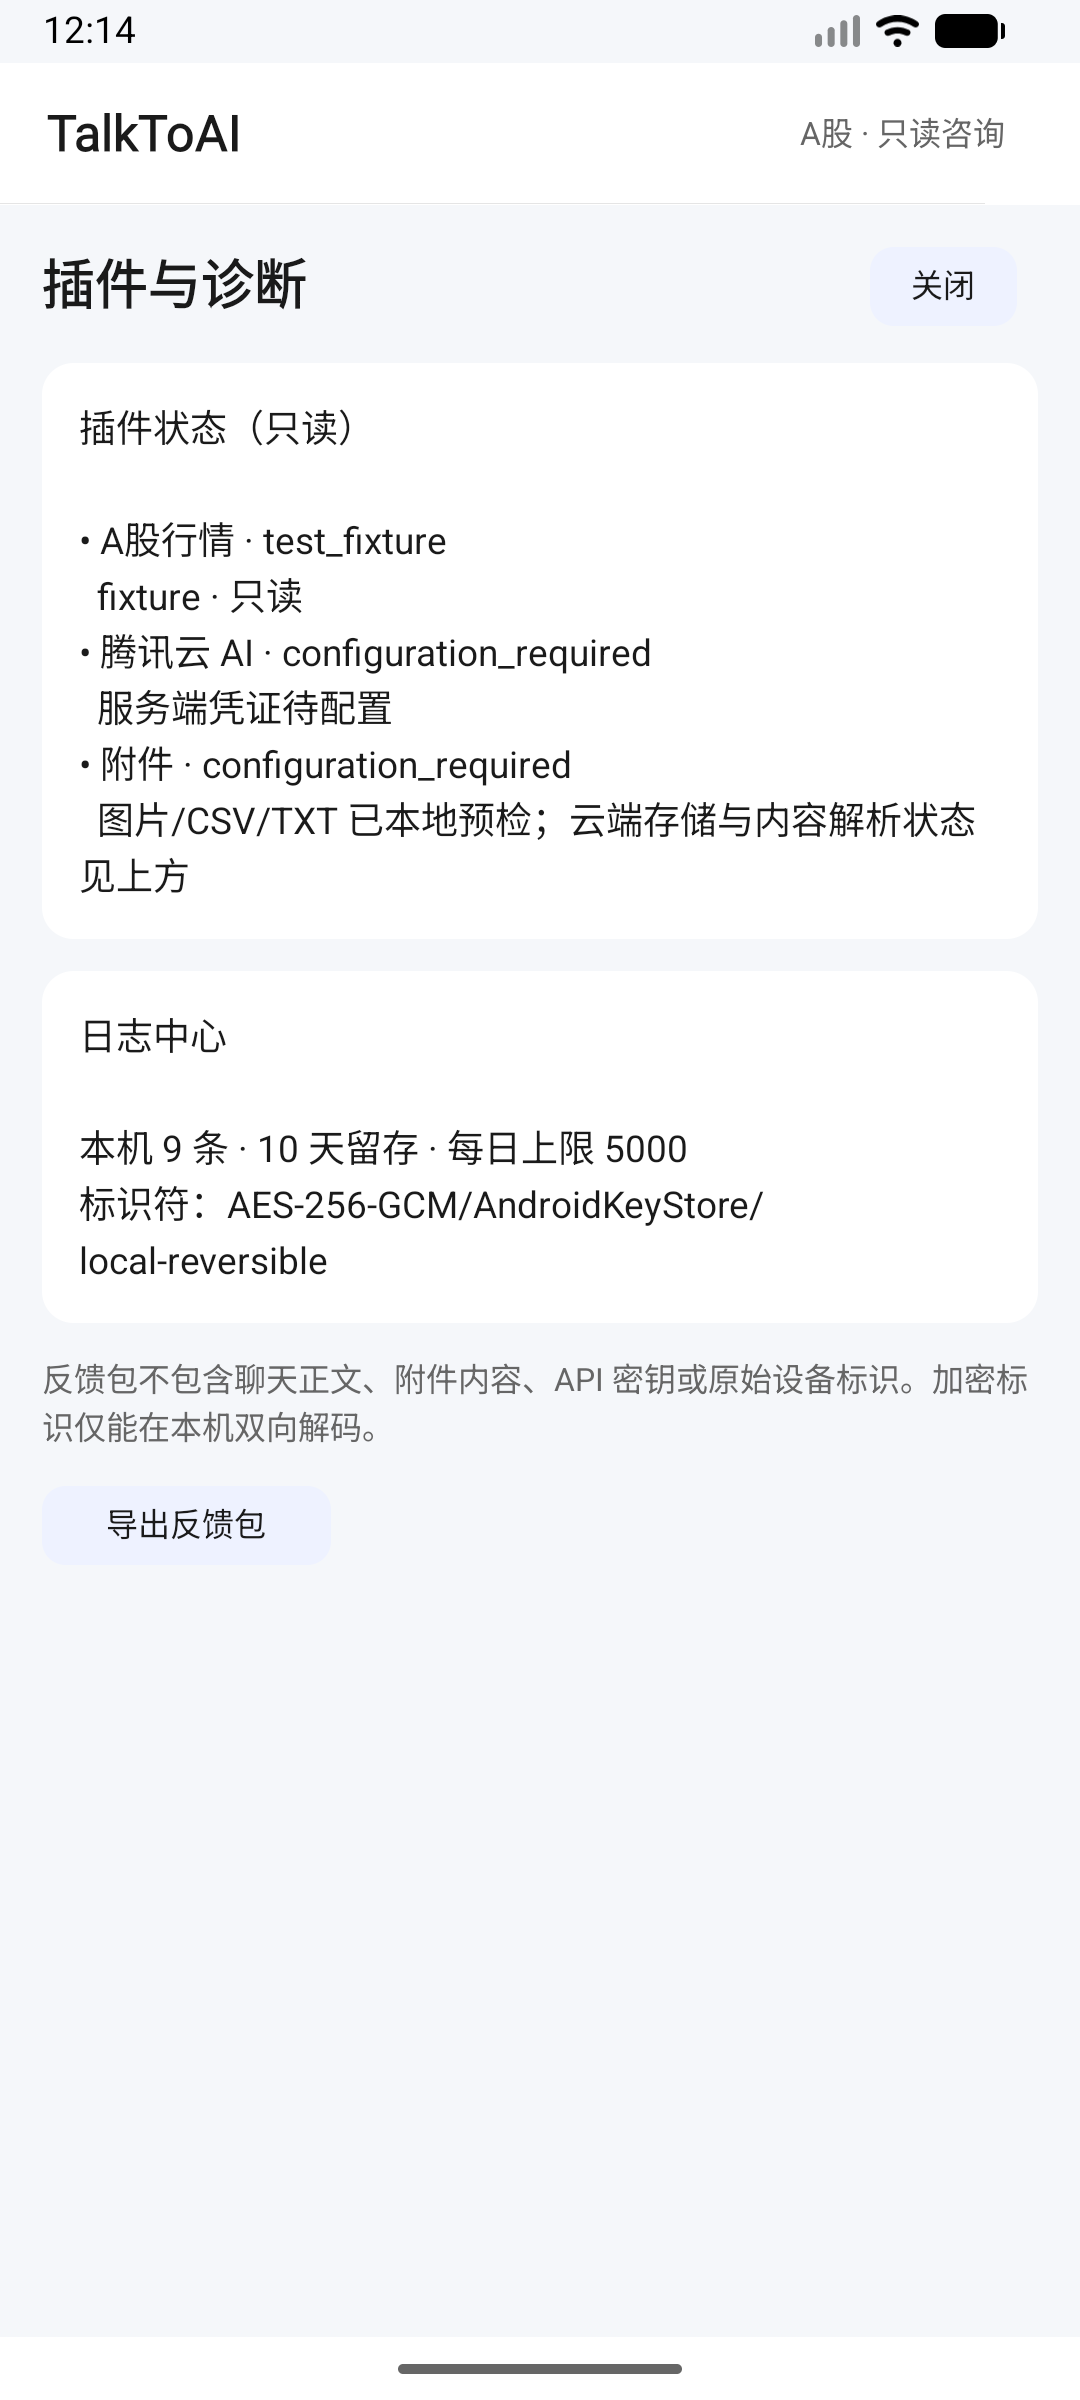
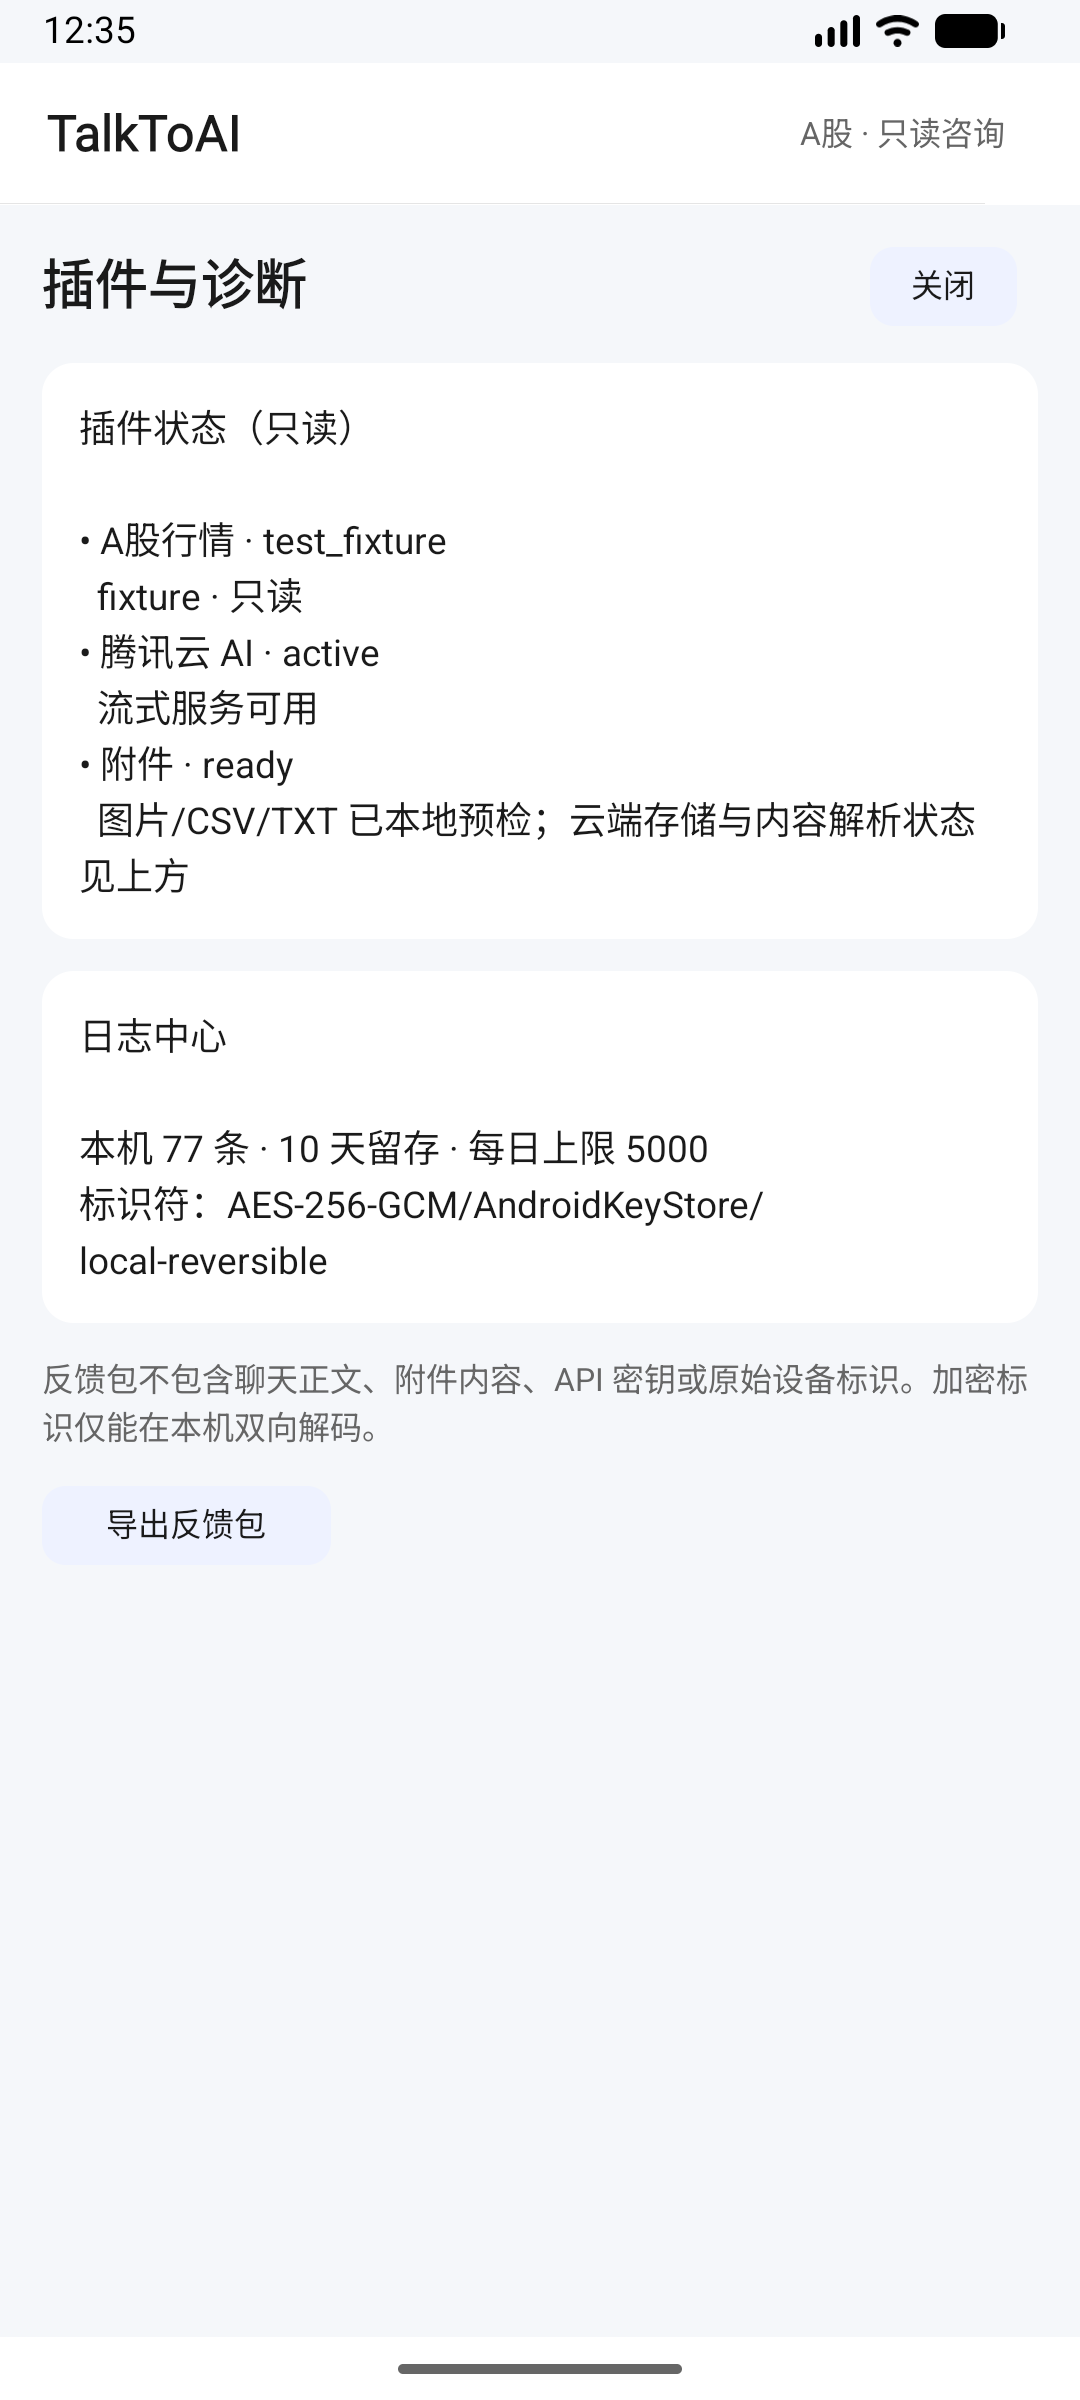
fix: enable CloudBase AI and generation stop

diff --git a/shared/src/commonMain/kotlin/com/example/talktoai/talk/TalkToAiPager.kt b/shared/src/commonMain/kotlin/com/example/talktoai/talk/TalkToAiPager.kt
@@ -243,7 +243,12 @@ internal class TalkToAiPager : BasePager() {
                     }
                     actionButton(ctx, "复制", "copy")
                     actionButton(ctx, "重试", "retry")
-                    actionButton(ctx, if (ctx.viewModel.isGenerating) "停止" else "新会话", if (ctx.viewModel.isGenerating) "stop" else "new")
+                    actionButton(
+                        ctx,
+                        title = "新会话",
+                        action = "generation",
+                        dynamicTitle = { if (ctx.viewModel.isGenerating) "停止" else "新会话" },
+                    )
                     actionButton(ctx, ctx.viewModel.themeLabel(), "theme", width = 86f)
                 }
 
@@ -297,14 +302,18 @@ internal class TalkToAiPager : BasePager() {
                             borderRadius(12f)
                             backgroundColor(ThemeColors.accent)
                             titleAttr {
-                                text(if (ctx.viewModel.isGenerating) "生成中" else "发送")
+                                text(if (ctx.viewModel.isGenerating) "停止" else "发送")
                                 color(ThemeColors.onAccent)
                                 fontSize(14f)
                             }
                         }
                         event {
                             click {
-                                if (ctx.viewModel.send()) ctx.inputRef.view?.setText("")
+                                if (ctx.viewModel.isGenerating) {
+                                    ctx.viewModel.stop()
+                                } else if (ctx.viewModel.send()) {
+                                    ctx.inputRef.view?.setText("")
+                                }
                             }
                         }
                     }
@@ -442,6 +451,7 @@ private fun com.tencent.kuikly.core.base.ViewContainer<*, *>.actionButton(
     action: String,
     width: Float = 72f,
     payload: String = "",
+    dynamicTitle: (() -> String)? = null,
 ) {
     Button {
         attr {
@@ -450,7 +460,7 @@ private fun com.tencent.kuikly.core.base.ViewContainer<*, *>.actionButton(
             marginRight(8f)
             borderRadius(9f)
             backgroundColor(ThemeColors.surfaceVariant)
-            titleAttr { text(title); fontSize(12f); color(ThemeColors.onSurface) }
+            titleAttr { text(dynamicTitle?.invoke() ?: title); fontSize(12f); color(ThemeColors.onSurface) }
         }
         event {
             click {
@@ -460,6 +470,9 @@ private fun com.tencent.kuikly.core.base.ViewContainer<*, *>.actionButton(
                 else if (action == "retry") ctx.viewModel.retry()
                 else if (action == "stop") ctx.viewModel.stop()
                 else if (action == "new") ctx.viewModel.newSession()
+                else if (action == "generation") {
+                    if (ctx.viewModel.isGenerating) ctx.viewModel.stop() else ctx.viewModel.newSession()
+                }
                 else if (action == "theme") ctx.viewModel.cycleTheme()
                 else if (action == "sessions") {
                     ctx.viewModel.status = "正在打开会话管理…"

diff --git a/backend/functions/talktoai-api/dist/app.js b/backend/functions/talktoai-api/dist/app.js
@@ -203,30 +203,28 @@ function createApp(deps) {
 function createCloudBaseDependencies() {
     const limit = Number.parseInt(process.env.DAILY_AI_LIMIT || `${constants_1.DEFAULT_DAILY_AI_LIMIT}`, 10);
     const accessKey = process.env.CLOUDBASE_APIKEY;
-    if (!accessKey && process.env.ALLOW_EPHEMERAL_QUOTA !== "true") {
-        throw new Error("CLOUDBASE_APIKEY is required; ephemeral quota is disabled");
-    }
     // eslint-disable-next-line @typescript-eslint/no-require-imports
     const cloudbase = require("@cloudbase/node-sdk");
-    const app = cloudbase.init({
+    const initOptions = {
         env: process.env.CLOUDBASE_ENV_ID,
-        accessKey,
         timeout: 120_000,
-    });
-    const quota = accessKey ? new quota_1.CloudBaseQuotaStore(app.database(), limit) : new quota_1.MemoryQuotaStore(limit);
+    };
+    if (accessKey)
+        initOptions.accessKey = accessKey;
+    const app = cloudbase.init(initOptions);
+    // CloudBase injects a runtime credential into cloud functions. The Node SDK uses
+    // that identity for AI, database and storage, so a second long-lived API key is
+    // optional rather than a prerequisite in the deployed function.
+    const quota = process.env.ALLOW_EPHEMERAL_QUOTA === "true"
+        ? new quota_1.MemoryQuotaStore(limit)
+        : new quota_1.CloudBaseQuotaStore(app.database(), limit);
     return {
         quota,
         market: new fixtures_1.FixtureMarketDataProvider(),
         marketProvider: "fixture",
-        aiConfigured: Boolean(accessKey),
-        uploadAttachment: accessKey
-            ? (cloudPath, content) => app.uploadFile({ cloudPath, fileContent: content })
-            : undefined,
-        createAiModel: () => {
-            if (!accessKey)
-                throw new ApiError(503, "AI_NOT_CONFIGURED", "测试环境尚未配置AI服务凭证");
-            return app.ai().createModel(process.env.AI_PROVIDER || constants_1.DEFAULT_AI_PROVIDER);
-        },
+        aiConfigured: true,
+        uploadAttachment: (cloudPath, content) => app.uploadFile({ cloudPath, fileContent: content }),
+        createAiModel: () => app.ai().createModel(process.env.AI_PROVIDER || constants_1.DEFAULT_AI_PROVIDER),
         now: () => new Date(),
     };
 }

diff --git a/backend/functions/talktoai-api/src/app.ts b/backend/functions/talktoai-api/src/app.ts
@@ -231,29 +231,28 @@ export function createApp(deps: AppDependencies) {
 function createCloudBaseDependencies(): AppDependencies {
   const limit = Number.parseInt(process.env.DAILY_AI_LIMIT || `${DEFAULT_DAILY_AI_LIMIT}`, 10);
   const accessKey = process.env.CLOUDBASE_APIKEY;
-  if (!accessKey && process.env.ALLOW_EPHEMERAL_QUOTA !== "true") {
-    throw new Error("CLOUDBASE_APIKEY is required; ephemeral quota is disabled");
-  }
   // eslint-disable-next-line @typescript-eslint/no-require-imports
   const cloudbase = require("@cloudbase/node-sdk") as { init(input: Record<string, unknown>): any };
-  const app = cloudbase.init({
+  const initOptions: Record<string, unknown> = {
     env: process.env.CLOUDBASE_ENV_ID,
-    accessKey,
     timeout: 120_000,
-  });
-  const quota = accessKey ? new CloudBaseQuotaStore(app.database(), limit) : new MemoryQuotaStore(limit);
+  };
+  if (accessKey) initOptions.accessKey = accessKey;
+  const app = cloudbase.init(initOptions);
+
+  // CloudBase injects a runtime credential into cloud functions. The Node SDK uses
+  // that identity for AI, database and storage, so a second long-lived API key is
+  // optional rather than a prerequisite in the deployed function.
+  const quota = process.env.ALLOW_EPHEMERAL_QUOTA === "true"
+    ? new MemoryQuotaStore(limit)
+    : new CloudBaseQuotaStore(app.database(), limit);
   return {
     quota,
     market: new FixtureMarketDataProvider(),
     marketProvider: "fixture",
-    aiConfigured: Boolean(accessKey),
-    uploadAttachment: accessKey
-      ? (cloudPath, content) => app.uploadFile({ cloudPath, fileContent: content })
-      : undefined,
-    createAiModel: () => {
-      if (!accessKey) throw new ApiError(503, "AI_NOT_CONFIGURED", "测试环境尚未配置AI服务凭证");
-      return app.ai().createModel(process.env.AI_PROVIDER || DEFAULT_AI_PROVIDER) as AiModel;
-    },
+    aiConfigured: true,
+    uploadAttachment: (cloudPath, content) => app.uploadFile({ cloudPath, fileContent: content }),
+    createAiModel: () => app.ai().createModel(process.env.AI_PROVIDER || DEFAULT_AI_PROVIDER) as AiModel,
     now: () => new Date(),
   };
 }

diff --git a/docs/v1/test-report.md b/docs/v1/test-report.md
@@ -10,14 +10,16 @@
 | 后端类型构建 | `npm run build` | 通过 |
 | Android 单元测试 | `./gradlew :androidApp:testDebugUnitTest` | 8/8 通过：SSE、HTTP 请求过滤、附件上传、会话与引用编解码、中断恢复 |
 | Android 静态检查 | `./gradlew :androidApp:lintDebug` | 0 error、49 warning；warning 为依赖升级/国际化等非阻断项 |
[2 lines of base64/hex data omitted]
 | CloudBase 测试部署 | `tcb fn deploy talktoai-api --force` | 成功 |
-| 远端健康 | `GET /health` | 200；准确报告 AI/附件未配置 |
+| 远端健康 | `GET /health` | 200；`aiReady=true`、`marketReady=true`、附件 `ready` |
 | 远端行情 | 周线自定义区间 | 200；聚合 OHLCV；`STALE`；醒目标注非实时测试数据 |
-| 远端 AI | 无凭证聊天请求 | 503 `AI_NOT_CONFIGURED`，且在配额扣减前失败 |
+| 远端 AI | `POST /v1/chat/completions` | 200；真实 `cloudbase / hy3` SSE：1 `meta`、40 `delta`、1 `done` |
+| 远端附件 | TXT 原始字节上传 | 201；返回受控 `cloud://` 对象引用，不返回公开 URL |
 | 模拟器安装与启动 | `adb -s emulator-5554 install --no-streaming -r -t ...` | 成功；Activity resumed；未发现 FATAL EXCEPTION/ANR |
 | 模拟器离线状态 | 关闭蜂窝数据和 Wi-Fi，使默认网络进入 `SUSPENDED` | 正确显示“无网络：历史会话仍可查看”，恢复网络后回到在线状态 |
-| 真机安装与启动 | `adb -s 10AG7H0CSP00C0D install --no-streaming -r -t ...` | 成功；包版本 1.0、targetSdk 34、进程存活；抽查日志未发现 FATAL EXCEPTION/ANR |
+| Android 真实流式闭环 | 模拟器输入、SSE 增量、完成与停止 | 真实 AI 回答完成；生成中两个入口均切换为“停止”；停止后持久化状态为 `stopped` |
+| 真机安装与启动 | `adb -s 10AG7H0CSP00C0D install --no-streaming -r -t ...` | 候选 APK 成功；包版本 1.0、targetSdk 34、进程存活；抽查日志未发现 FATAL EXCEPTION/ANR |
 
 最终 Android 校验命令为：
 
@@ -25,12 +27,14 @@
 ./gradlew :androidApp:testDebugUnitTest :androidApp:lintDebug :androidApp:assembleDebug --no-daemon
 ```
 
-结果：`BUILD SUCCESSFUL`，94 个任务（16 executed、78 up-to-date）。最终 APK 同时安装到模拟器和真机。真机安装后设备进入系统锁屏，因此保留安装、包信息、进程与日志证据，不把锁屏截图当作应用 UI 验收证据。
+结果：`BUILD SUCCESSFUL`，94 个任务（29 executed、65 up-to-date）。最终 APK 已安装到模拟器。真机曾成功安装紧邻最终版的候选 APK；修复“停止”按钮后真机从 ADB 断开，因此最终哈希版本仍需重新安装。保留候选版安装、包信息、进程与日志证据，不把锁屏截图当作应用 UI 验收证据。
 
 ## 未完成与阻塞
 
-1. 腾讯云 AI 流式真响应与 CloudBase 附件真实存储/内容解析：测试函数没有服务端 `CLOUDBASE_APIKEY`。代码与失败契约已完成，不能伪造成功证据；停止生成目前由客户端断开流和接口测试覆盖，尚缺真实上游运行证据。
-2. 生产 A 股行情：给定三狐页面不支持 HTTPS，且没有可验证的官方 API 契约或数据授权。当前只能交付明确标为非实时、并会判定过期的固定测试数据。
-3. 无登录条件下只能本机保存与重启恢复，无法实现真实双端同步；该能力必须与后续账号/匿名云身份产品方案一起决策。
-4. 插件中心首版只提供能力状态与稳定边界，尚未实现第三方动态加载或远程插件目录。
-5. `@cloudbase/node-sdk 3.18.3` 的传递依赖审计仍报告 1 个 moderate、4 个 high；升级需等待官方依赖链修复或做隔离替换评估。
+1. 生产 A 股行情：给定三狐页面不支持 HTTPS，且没有可验证的官方 API 契约或数据授权。当前只能交付明确标为非实时、并会判定过期的固定测试数据。
+2. 每日 500 次目前使用函数进程内存计数；单实例测试正确，但冷启动和横向扩容会重置。生产前必须接入 SQL/NoSQL 原子持久化计数并执行并发测试。
+3. 附件已能安全上传到 CloudBase，但图片识别以及 CSV/TXT 内容抽取尚未接入 AI 上下文。
+4. 无登录条件下只能本机保存与重启恢复，无法实现真实双端同步；该能力必须与后续账号/匿名云身份产品方案一起决策。
+5. 插件中心首版只提供能力状态与稳定边界，尚未实现第三方动态加载或远程插件目录。
+6. `@cloudbase/node-sdk 3.18.3` 的传递依赖审计仍报告 1 个 moderate、4 个 high；升级需等待官方依赖链修复或做隔离替换评估。
+7. 最终哈希 APK 尚缺物理真机复装与 UI 截图；当前完成的是模拟器最终版和真机候选版验证。

diff --git a/docs/v1/deployment.md b/docs/v1/deployment.md
@@ -15,8 +15,10 @@ curl -fsS 'https://stockai-test-d6gd0ho1z97f0bbde.service.tcloudbase.com/talktoa
 
 网关只开放 HTTPS 路由 `/talktoai`，总 QPS 100、单客户端 IP QPS 5。匿名请求的 AI 日配额为每安装每天 500 次，按 `Asia/Shanghai` 自然日重置。
 
-## 待配置凭证
+## AI 与存储身份
 
-在 CloudBase 控制台的 `talktoai-api` 测试函数环境变量中配置 `CLOUDBASE_APIKEY`。密钥必须只存在于服务端环境变量。配置后重新部署或更新函数配置，再以 `/health` 的 `aiReady=true` 和 `attachments=ready` 为验收依据。
+测试环境通过 CloudBase Node SDK 在云函数中调用 `cloudbase / hy3`、数据库和云存储。Android、Git 与公开接口均不保存或返回服务端密钥。`/health` 已实测返回 `aiReady=true` 和 `attachments=ready`；如运行环境身份策略变化，可在测试函数环境变量中配置 `CLOUDBASE_APIKEY`，代码会优先把它作为 SDK `accessKey`，但不得写入仓库。
+
+当前 `ALLOW_EPHEMERAL_QUOTA=true`，每日 500 次只在单个温实例内准确，冷启动或横向扩容会重新计数。接入持久化 SQL/NoSQL 原子计数后必须删除该变量，才可把 500 次声明为跨实例强约束。
 
 行情生产接入不得使用当前三狐页面抓取：2026-09-07 实测该页面只有 HTTP 可访问，HTTPS 连接失败，且未发现公开官方 API 契约。只有取得数据授权、HTTPS Base URL、鉴权方式、字段字典、交易日历、限流与 SLA 后，才允许新增对应的 `MarketDataProvider`。

diff --git a/README.md b/README.md
@@ -10,11 +10,11 @@ npm test
 npm run build
 
 cd ../../..
-./gradlew :androidApp:testDebugUnitTest :androidApp:assembleDebug --no-daemon
+./gradlew :androidApp:testDebugUnitTest :androidApp:lintDebug :androidApp:assembleDebug --no-daemon
 adb -s emulator-5554 install --no-streaming -r -t androidApp/build/outputs/apk/debug/androidApp-debug.apk
 ```
 
-测试环境接口：`https://stockai-test-d6gd0ho1z97f0bbde.service.tcloudbase.com/talktoai`。当前公开测试环境故意不包含任何密钥；未配置凭证时 AI 和附件上传会返回明确的 503，而不会回退成伪成功。
+测试环境接口：`https://stockai-test-d6gd0ho1z97f0bbde.service.tcloudbase.com/talktoai`。CloudBase Node SDK 在函数内调用 `cloudbase / hy3`；Android 不保存服务端密钥。测试环境已经完成真实 SSE 与云存储上传验证。
 
 详细资料：
 
